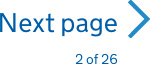
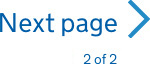
Automated commit at 2015-12-11 09:58:23 UTC by middleman-deploy 1.0.0

Changed region(s): [[0.48, 0.8438, 0.8, 1.0]]

diff --git a/public/journey-7/income.html b/public/journey-7/income.html
@@ -1,4 +1,4 @@
-<!DOCTYPE html><html ng-app="app"><head><meta charset="utf-8" /><title>Apply for help with fees</title><meta content="width=device-width" name="viewport" /><link href="../../assets/stylesheets/styles.css" rel="stylesheet" /><link href="../../assets/stylesheets/r2_calculator.css" rel="stylesheet" /><link href="../../assets/stylesheets/r1calc.css" rel="stylesheet" /><script src="../../assets/javascripts/jquery.min.js"></script></head><body><div class="contain-to-grid"><nav class="top-bar" data-topbar=""><ul class="title-area"><li class="name"><h1><a href="../../">GOV.UK</a></h1></li></ul><ul><li class="section"><h1></h1></li></ul><section class="top-bar-section"><ul class="right"><li><a href=""></a></li></ul></section></nav></div><div class="row"><div class="large-12 columns"><form><div class="row"><div class="small-12 medium-6 columns"><br /><h4>What is your total monthly income, before tax and National Insurance?</h4></div></div><div class="row"><div class="small-12 medium-3 columns"><div class="options radio"><div class="option"><label for="email"><input id="email" name="email" type="checkbox" />Wages</label></div></div></div></div><div class="hide" id="email-detail"><div class="row"><div class="small-12 medium-4 columns"><div class="panel-indent"><label for="email-detail">Email address<div class="small-2 medium-3 large-3 columns" style="padding:0px;"><span class="prefix"><label class="inline" for="fee">£</label></span></div><div class="small-10 medium-9 large-7 columns end" style="padding:0px;"><input id="fee" type="number" /></div></label></div></div></div></div><div class="row"><div class="small-12 medium-3 columns"><div class="options radio"><div class="option"><label for="phone"><input id="phone" name="phone" type="checkbox" />Child benefit</label></div></div></div></div><div class="hide" id="phone-detail"><div class="row"><div class="small-12 medium-4 columns"><div class="panel-indent"><label for="email-detail">Child benefit<div class="small-2 medium-3 large-3 columns" style="padding:0px;"><span class="prefix"><label class="inline" for="fee">£</label></span></div><div class="small-10 medium-9 large-7 columns end" style="padding:0px;"><input id="fee" type="number" /></div></label></div></div><div class="row"><div class="small-12 medium-10 columns"><label for="form">Working Tax Credit</label><div class="small-2 medium-3 large-3 columns" style="padding:0px;"><span class="prefix"><label class="inline" for="fee">£</label></span></div><div class="small-10 medium-9 large-7 columns end" style="padding:0px;"><input id="fee" type="number" /></div></div></div><div class="row"><div class="small-12 medium-10 columns"><label for="form">Child Tax Credit</label><div class="small-2 medium-3 large-3 columns" style="padding:0px;"><span class="prefix"><label class="inline" for="fee">£</label></span></div><div class="small-10 medium-9 large-7 columns end" style="padding:0px;"><input id="fee" type="number" /></div></div></div><div class="row"><div class="small-12 medium-10 columns"><label for="form">Maintenance payments</label><div class="small-2 medium-3 large-3 columns" style="padding:0px;"><span class="prefix"><label class="inline" for="fee">£</label></span></div><div class="small-10 medium-9 large-7 columns end" style="padding:0px;"><input id="fee" type="number" /></div></div></div><div class="row"><div class="small-12 medium-10 columns"><label for="form">Contribution-based Jobseekers Allowance (JSA)</label><div class="small-2 medium-3 large-3 columns" style="padding:0px;"><span class="prefix"><label class="inline" for="fee">£</label></span></div><div class="small-10 medium-9 large-7 columns end" style="padding:0px;"><input id="fee" type="number" /></div></div></div><div class="row"><div class="small-12 medium-10 columns"><label for="form">Contribution-based Employment and Support Allowance (ESA)</label><div class="small-2 medium-3 large-3 columns" style="padding:0px;"><span class="prefix"><label class="inline" for="fee">£</label></span></div><div class="small-10 medium-9 large-7 columns end" style="padding:0px;"><input id="fee" type="number" /></div></div></div><div class="row"><div class="small-12 medium-10 columns"><label for="form">Universal Credit</label><div class="small-2 medium-3 large-3 columns" style="padding:0px;"><span class="prefix"><label class="inline" for="fee">£</label></span></div><div class="small-10 medium-9 large-7 columns end" style="padding:0px;"><input id="fee" type="number" /></div></div></div><div class="row"><div class="small-12 medium-10 columns"><label for="form">Pensions (state, work, private)</label><div class="small-2 medium-3 large-3 columns" style="padding:0px;"><span class="prefix"><label class="inline" for="fee">£</label></span></div><div class="small-10 medium-9 large-7 columns end" style="padding:0px;"><input id="fee" type="number" /></div></div></div><div class="row"><div class="small-12 medium-10 columns"><label for="form">Rent from anyone living with you</label><div class="small-2 medium-3 large-3 columns" style="padding:0px;"><span class="prefix"><label class="inline" for="fee">£</label></span></div><div class="small-10 medium-9 large-7 columns end" style="padding:0px;"><input id="fee" type="number" /></div></div></div><div class="row"><div class="small-12 medium-10 columns"><label for="form">Rent from other properties you own</label><div class="small-2 medium-3 large-3 columns" style="padding:0px;"><span class="prefix"><label class="inline" for="fee">£</label></span></div><div class="small-10 medium-9 large-7 columns end" style="padding:0px;"><input id="fee" type="number" /></div></div></div><div class="row"><div class="small-12 medium-10 columns columns"><label for="form">Other monthly income</label><div class="small-10 medium-10 columns end" style="padding:0px;"><input id="fee" type="number" /></div><div class="small-2 medium-3 large-3 columns" style="padding:0px;"><span class="prefix"><label class="inline" for="fee">£</label></span></div><div class="small-10 medium-9 large-7 columns end" style="padding:0px;"><input id="fee" type="number" /></div></div></div></div></div><br /><div class="row"><div class="small-12 medium-6 columns"><a href="refund.html"><div class="button success">Continue</div></a></div></div></form><script>$(document).ready( function() {
+<!DOCTYPE html><html ng-app="app"><head><meta charset="utf-8" /><title>Apply for help with fees</title><meta content="width=device-width" name="viewport" /><link href="../../assets/stylesheets/styles.css" rel="stylesheet" /><link href="../../assets/stylesheets/r2_calculator.css" rel="stylesheet" /><link href="../../assets/stylesheets/r1calc.css" rel="stylesheet" /><script src="../../assets/javascripts/jquery.min.js"></script></head><body><div class="contain-to-grid"><nav class="top-bar" data-topbar=""><ul class="title-area"><li class="name"><h1><a href="../../">GOV.UK</a></h1></li></ul><ul><li class="section"><h1></h1></li></ul><section class="top-bar-section"><ul class="right"><li><a href=""></a></li></ul></section></nav></div><div class="row"><div class="large-12 columns"><form><div class="row"><div class="small-12 medium-6 columns"><br /><h4>What is your total monthly income, before tax and National Insurance?</h4></div></div><div class="row"><div class="small-12 medium-3 columns"><div class="options radio"><div class="option"><label for="email"><input id="email" name="email" type="checkbox" />Wages</label></div></div></div></div><div class="hide" id="email-detail"><div class="row"><div class="small-12 medium-6 columns"><div class="panel-indent"><div class="row"><div class="small-12 medium-6 columns"><label for="form">Wages</label><div class="small-2 medium-3 large-2 columns" style="padding:0px;"><span class="prefix"><label class="inline" for="fee">£</label></span></div><div class="small-10 medium-9 large-4 columns end" style="padding:0px;"><input id="fee" type="number" /></div></div></div></div></div></div></div><div class="row"><div class="small-12 medium-3 columns"><div class="options radio"><div class="option"><label for="phone"><input id="phone" name="phone" type="checkbox" />Child benefit</label></div></div></div></div><div class="hide" id="phone-detail"><div class="row"><div class="small-12 medium-4 columns"><div class="panel-indent"><label for="email-detail">Child benefit<div class="small-2 medium-3 large-3 columns" style="padding:0px;"><span class="prefix"><label class="inline" for="fee">£</label></span></div><div class="small-10 medium-9 large-7 columns end" style="padding:0px;"><input id="fee" type="number" /></div></label></div></div><div class="row"><div class="small-12 medium-10 columns"><label for="form">Working Tax Credit</label><div class="small-2 medium-3 large-3 columns" style="padding:0px;"><span class="prefix"><label class="inline" for="fee">£</label></span></div><div class="small-10 medium-9 large-7 columns end" style="padding:0px;"><input id="fee" type="number" /></div></div></div><div class="row"><div class="small-12 medium-10 columns"><label for="form">Child Tax Credit</label><div class="small-2 medium-3 large-3 columns" style="padding:0px;"><span class="prefix"><label class="inline" for="fee">£</label></span></div><div class="small-10 medium-9 large-7 columns end" style="padding:0px;"><input id="fee" type="number" /></div></div></div><div class="row"><div class="small-12 medium-10 columns"><label for="form">Maintenance payments</label><div class="small-2 medium-3 large-3 columns" style="padding:0px;"><span class="prefix"><label class="inline" for="fee">£</label></span></div><div class="small-10 medium-9 large-7 columns end" style="padding:0px;"><input id="fee" type="number" /></div></div></div><div class="row"><div class="small-12 medium-10 columns"><label for="form">Contribution-based Jobseekers Allowance (JSA)</label><div class="small-2 medium-3 large-3 columns" style="padding:0px;"><span class="prefix"><label class="inline" for="fee">£</label></span></div><div class="small-10 medium-9 large-7 columns end" style="padding:0px;"><input id="fee" type="number" /></div></div></div><div class="row"><div class="small-12 medium-10 columns"><label for="form">Contribution-based Employment and Support Allowance (ESA)</label><div class="small-2 medium-3 large-3 columns" style="padding:0px;"><span class="prefix"><label class="inline" for="fee">£</label></span></div><div class="small-10 medium-9 large-7 columns end" style="padding:0px;"><input id="fee" type="number" /></div></div></div><div class="row"><div class="small-12 medium-10 columns"><label for="form">Universal Credit</label><div class="small-2 medium-3 large-3 columns" style="padding:0px;"><span class="prefix"><label class="inline" for="fee">£</label></span></div><div class="small-10 medium-9 large-7 columns end" style="padding:0px;"><input id="fee" type="number" /></div></div></div><div class="row"><div class="small-12 medium-10 columns"><label for="form">Pensions (state, work, private)</label><div class="small-2 medium-3 large-3 columns" style="padding:0px;"><span class="prefix"><label class="inline" for="fee">£</label></span></div><div class="small-10 medium-9 large-7 columns end" style="padding:0px;"><input id="fee" type="number" /></div></div></div><div class="row"><div class="small-12 medium-10 columns"><label for="form">Rent from anyone living with you</label><div class="small-2 medium-3 large-3 columns" style="padding:0px;"><span class="prefix"><label class="inline" for="fee">£</label></span></div><div class="small-10 medium-9 large-7 columns end" style="padding:0px;"><input id="fee" type="number" /></div></div></div><div class="row"><div class="small-12 medium-10 columns"><label for="form">Rent from other properties you own</label><div class="small-2 medium-3 large-3 columns" style="padding:0px;"><span class="prefix"><label class="inline" for="fee">£</label></span></div><div class="small-10 medium-9 large-7 columns end" style="padding:0px;"><input id="fee" type="number" /></div></div></div><div class="row"><div class="small-12 medium-10 columns columns"><label for="form">Other monthly income</label><div class="small-10 medium-10 columns end" style="padding:0px;"><input id="fee" type="number" /></div><div class="small-2 medium-3 large-3 columns" style="padding:0px;"><span class="prefix"><label class="inline" for="fee">£</label></span></div><div class="small-10 medium-9 large-7 columns end" style="padding:0px;"><input id="fee" type="number" /></div></div></div></div></div><br /><div class="row"><div class="small-12 medium-6 columns"><a href="refund.html"><div class="button success">Continue</div></a></div></div></form><script>$(document).ready( function() {
   buildNextUrl('3-savings.html');
   $('#fee').bind('change', function () {
     $("#next-url").attr("href", updateQueryStringParameter('fee', $(this).val()));

diff --git a/staff/list-processed-month.html b/staff/list-processed-month.html
@@ -1,2 +1,2 @@
-<!DOCTYPE html><html ng-app="app"><head><meta charset="utf-8" /><title>Help with fees</title><meta content="width=device-width" name="viewport" /><link href="../assets/stylesheets/styles.css" rel="stylesheet" /><link href="../assets/stylesheets/r2_calculator.css" rel="stylesheet" /><link href="../assets/stylesheets/r1calc.css" rel="stylesheet" /><script src="../assets/javascripts/jquery.min.js"></script></head><body><div class="contain-to-grid"><nav class="top-bar" data-topbar=""><ul class="title-area"><li class="name"><h1><a href="../">Help with fees</a></h1></li></ul><ul><li class="section"><h1></h1></li></ul><section class="top-bar-section"><ul class="right"><li><a href=""></a></li></ul></section></nav></div><div class="row"><div class="large-12 columns"><form><br /><div class="row"><div class="small-12 medium-12 large-12 columns"><h2>Processed applications</h2></div></div><br /><div class="row"><div class="small-12 columns"><div class="panel"><div class="row"><div class="small-12 medium-4 columns"><label for="first_name">Date from</label><span class="hint">For example DD/MM/YYYY</span><input name="first_name" placeholder="1/11/2015" type="text" /></div><div class="small-12 medium-4 columns"><label for="first_name">Date to</label><span class="hint">For example DD/MM/YYYY</span><input name="first_name" placeholder="1/12/2015" type="text" /></div><div class="small-12 medium-4 columns"><a href="list-processed-month.html"><div class="button success" style="margin-top:36px;">Show applications</div></a></div></div></div></div></div><br /><div class="row"><div class="small-12 columns"><table width="100%"><thead><tr><th>Reference</th><th>Applicant</th><th>Date received</th><th>Date processed</th><th>Processed by</th><th>Emergency</th></tr></thead><tbody><tr><td><a href="application.html">AT001-15-106</a></td><td>Mr John Smith</td><td>2 November</td><td>2 November</td><td>Juliana Richardson</td><td></td></tr><tr><td><a href="application.html">AT001-15-106</a></td><td>Mr George Rogers</td><td>3 November</td><td>3 November</td><td>Juliana Richardson</td><td></td></tr><tr><td><a href="application.html">AT001-15-106</a></td><td>Mr Catherine Holmes</td><td>4 November</td><td>5 November</td><td>Juliana Richardson</td><td></td></tr><tr><td><a href="application.html">AT001-15-106</a></td><td>Mr Dan Flutter</td><td>9 November</td><td>9 November</td><td>Juliana Richardson</td><td></td></tr><tr><td><a href="application-emergency.html">AT001-15-107</a></td><td>Mrs Vanessa Smith</td><td>10 November</td><td>12 November</td><td>Juliana Richardson</td><td></td></tr><tr><td><a href="application.html">AT001-15-108</a></td><td>Mr Peter Geoffery-Smith</td><td>16 November</td><td>16 November</td><td>Juliana Richardson</td><td></td></tr><tr><td><a href="application-emergency.html">AT001-15-109</a></td><td>Mr Wayne Quinn</td><td>19 November</td><td>20 November</td><td>Juliana Richardson</td><td></td></tr><tr><td><a href="application.html">AT001-15-110</a></td><td>Mrs Wilma Goring</td><td>23 November</td><td>23 November</td><td>Juliana Richardson</td><td></td></tr><tr><td><a href="application.html">AT001-15-111</a></td><td>Mr Peter Geoffery-Smith</td><td>24 November</td><td>24 November</td><td>Juliana Richardson</td><td></td></tr><tr><td><a href="application.html">AT001-15-112</a></td><td>Ms Sarah Nicoles</td><td>25 November</td><td>25 November</td><td>Juliana Richardson</td><td></td></tr><tr><td><a href="application-emergency.html">AT001-15-113</a></td><td>Mrs Tray Caulson</td><td>30 November</td><td>30 November</td><td>Juliana Richardson</td><td>Yes</td></tr></tbody></table></div></div><br /><br /><div class="row"><div class="small-12 columns"><div class="row"><div class="small-3 columns"><img src="../assets/images/previous-page.jpg" /></div><div class="small-6 columns"></div><div class="small-3 columns"><img src="../assets/images/next-page.jpg" /></div></div></div></div></form><script>$(document).ready( function() {
+<!DOCTYPE html><html ng-app="app"><head><meta charset="utf-8" /><title>Help with fees</title><meta content="width=device-width" name="viewport" /><link href="../assets/stylesheets/styles.css" rel="stylesheet" /><link href="../assets/stylesheets/r2_calculator.css" rel="stylesheet" /><link href="../assets/stylesheets/r1calc.css" rel="stylesheet" /><script src="../assets/javascripts/jquery.min.js"></script></head><body><div class="contain-to-grid"><nav class="top-bar" data-topbar=""><ul class="title-area"><li class="name"><h1><a href="../">Help with fees</a></h1></li></ul><ul><li class="section"><h1></h1></li></ul><section class="top-bar-section"><ul class="right"><li><a href=""></a></li></ul></section></nav></div><div class="row"><div class="large-12 columns"><form><br /><div class="row"><div class="small-12 medium-12 large-12 columns"><h2>Processed applications</h2></div></div><br /><div class="row"><div class="small-12 columns"><div class="panel"><div class="row"><div class="small-12 medium-4 columns"><label for="first_name">Date from</label><span class="hint">For example DD/MM/YYYY</span><input name="first_name" placeholder="1/11/2015" type="text" /></div><div class="small-12 medium-4 columns"><label for="first_name">Date to</label><span class="hint">For example DD/MM/YYYY</span><input name="first_name" placeholder="1/12/2015" type="text" /></div><div class="small-12 medium-4 columns"><a href="list-processed-month.html"><div class="button success" style="margin-top:36px;">Show applications</div></a></div></div></div></div></div><br /><div class="row"><div class="small-12 columns"><table width="100%"><thead><tr><th>Reference</th><th>Applicant</th><th>Date received</th><th>Date processed</th><th>Processed by</th><th>Emergency</th></tr></thead><tbody><tr><td><a href="application.html">AT001-15-106</a></td><td>Mr John Smith</td><td>2 November</td><td>2 November</td><td>Juliana Richardson</td><td></td></tr><tr><td><a href="application.html">AT001-15-106</a></td><td>Mr George Rogers</td><td>3 November</td><td>3 November</td><td>Juliana Richardson</td><td></td></tr><tr><td><a href="application.html">AT001-15-106</a></td><td>Mr Catherine Holmes</td><td>4 November</td><td>5 November</td><td>Juliana Richardson</td><td></td></tr><tr><td><a href="application.html">AT001-15-106</a></td><td>Mr Dan Flutter</td><td>6 November</td><td>6 November</td><td>Juliana Richardson</td><td></td></tr><tr><td><a href="application-emergency.html">AT001-15-107</a></td><td>Mrs Vanessa Smith</td><td>9 November</td><td>10 November</td><td>Juliana Richardson</td><td></td></tr><tr><td><a href="application.html">AT001-15-108</a></td><td>Mr Peter Geoffery-Smith</td><td>13 November</td><td>13 November</td><td>Juliana Richardson</td><td></td></tr><tr><td><a href="application-emergency.html">AT001-15-109</a></td><td>Mr Wayne Quinn</td><td>13 November</td><td>13 November</td><td>Juliana Richardson</td><td></td></tr><tr><td><a href="application.html">AT001-15-110</a></td><td>Mrs Wilma Goring</td><td>16 November</td><td>17 November</td><td>Juliana Richardson</td><td></td></tr><tr><td><a href="application.html">AT001-15-111</a></td><td>Mr Peter Geoffery-Smith</td><td>17 November</td><td>17 November</td><td>Juliana Richardson</td><td></td></tr><tr><td><a href="application.html">AT001-15-112</a></td><td>Ms Sarah Nicoles</td><td>18 November</td><td>18 November</td><td>Juliana Richardson</td><td></td></tr><tr><td><a href="application-emergency.html">AT001-15-113</a></td><td>Mrs Tray Caulson</td><td>19 November</td><td>19 November</td><td>Juliana Richardson</td><td>Yes</td></tr></tbody></table></div></div><br /><br /><div class="row"><div class="small-12 columns"><div class="row"><div class="small-10 columns"></div><div class="small-2 columns"><a href="list-processed-month-2.html"><img src="../assets/images/next-page.jpg" /></a></div></div></div></div></form><script>$(document).ready( function() {
 });</script></div></div><div class="row"><div class="small-12 columns"><br /><br /><footer class="row page-footer"><div class="small-12 columns"><div class="small-12 medium-12 large-6 columns"><h4>Contact us</h4><hr style="color:bfc1c3;" /><h5>Technical support</h5><p><a href="mailto:helpwithfees.support@digital.justice.gov.uk">helpwithfees.support@digital.justice.gov.uk</a></p></div><div class="small-12 medium-12 large-6 columns"><h4>Your feedback</h4><hr style="color:bfc1c3;" /><div class="small-8 columns" style="padding-left:0px;"><h5>Tell us what you think</h5><p><a href="#">Give feedback</a></p></div><div class="small-4 columns"><img src="../assets/images/copyright.png" style="padding-top:35px;" /></div></div></div></footer><p></p><a href="/"></a></div><script src="../assets/javascripts/libs.js"></script><script src="../assets/javascripts/app.js"></script><script src="../assets/javascripts/details.polyfill.js"></script></div></body></html>

diff --git a/staff/list-processed-month-2.html b/staff/list-processed-month-2.html
@@ -1,0 +1,2 @@
+<!DOCTYPE html><html ng-app="app"><head><meta charset="utf-8" /><title>Help with fees</title><meta content="width=device-width" name="viewport" /><link href="../assets/stylesheets/styles.css" rel="stylesheet" /><link href="../assets/stylesheets/r2_calculator.css" rel="stylesheet" /><link href="../assets/stylesheets/r1calc.css" rel="stylesheet" /><script src="../assets/javascripts/jquery.min.js"></script></head><body><div class="contain-to-grid"><nav class="top-bar" data-topbar=""><ul class="title-area"><li class="name"><h1><a href="../">Help with fees</a></h1></li></ul><ul><li class="section"><h1></h1></li></ul><section class="top-bar-section"><ul class="right"><li><a href=""></a></li></ul></section></nav></div><div class="row"><div class="large-12 columns"><form><br /><div class="row"><div class="small-12 medium-12 large-12 columns"><h2>Processed applications</h2></div></div><br /><div class="row"><div class="small-12 columns"><div class="panel"><div class="row"><div class="small-12 medium-4 columns"><label for="first_name">Date from</label><span class="hint">For example DD/MM/YYYY</span><input name="first_name" placeholder="1/11/2015" type="text" /></div><div class="small-12 medium-4 columns"><label for="first_name">Date to</label><span class="hint">For example DD/MM/YYYY</span><input name="first_name" placeholder="1/12/2015" type="text" /></div><div class="small-12 medium-4 columns"><a href="list-processed-month.html"><div class="button success" style="margin-top:36px;">Show applications</div></a></div></div></div></div></div><br /><div class="row"><div class="small-12 columns"><table width="100%"><thead><tr><th>Reference</th><th>Applicant</th><th>Date received</th><th>Date processed</th><th>Processed by</th><th>Emergency</th></tr></thead><tbody><tr><td><a href="application.html">AT001-15-106</a></td><td>Mr Larry Pratt</td><td>23 November</td><td>23 November</td><td>Juliana Richardson</td><td></td></tr><tr><td><a href="application.html">AT001-15-106</a></td><td>Mr Sunny Right</td><td>24 November</td><td>25 November</td><td>Juliana Richardson</td><td></td></tr><tr><td><a href="application.html">AT001-15-106</a></td><td>Mr Gerald Frank</td><td>25 November</td><td>25 November</td><td>Juliana Richardson</td><td></td></tr><tr><td><a href="application.html">AT001-15-106</a></td><td>Mr Penelope Townsend</td><td>26 November</td><td>26 November</td><td>Juliana Richardson</td><td></td></tr><tr><td><a href="application-emergency.html">AT001-15-107</a></td><td>Mrs Tim Bell</td><td>27 November</td><td>27 November</td><td>Juliana Richardson</td><td></td></tr><tr><td><a href="application.html">AT001-15-108</a></td><td>Mr Geoffery Thistle</td><td>27 November</td><td>27 November</td><td>Juliana Richardson</td><td></td></tr><tr><td><a href="application-emergency.html">AT001-15-109</a></td><td>Mr Doug Sing</td><td>27 November</td><td>30 November</td><td>Juliana Richardson</td><td></td></tr><tr><td><a href="application.html">AT001-15-110</a></td><td>Mrs Brendan Grant</td><td>30 November</td><td>30 November</td><td>Juliana Richardson</td><td></td></tr></tbody></table></div></div><br /><br /><div class="row"><div class="small-12 columns"><div class="row"><div class="small-3 columns"><a href="list-processed-month.html"><img src="../assets/images/previous-page.jpg" /></a></div><div class="small-9 columns"></div></div></div></div></form><script>$(document).ready( function() {
+});</script></div></div><div class="row"><div class="small-12 columns"><br /><br /><footer class="row page-footer"><div class="small-12 columns"><div class="small-12 medium-12 large-6 columns"><h4>Contact us</h4><hr style="color:bfc1c3;" /><h5>Technical support</h5><p><a href="mailto:helpwithfees.support@digital.justice.gov.uk">helpwithfees.support@digital.justice.gov.uk</a></p></div><div class="small-12 medium-12 large-6 columns"><h4>Your feedback</h4><hr style="color:bfc1c3;" /><div class="small-8 columns" style="padding-left:0px;"><h5>Tell us what you think</h5><p><a href="#">Give feedback</a></p></div><div class="small-4 columns"><img src="../assets/images/copyright.png" style="padding-top:35px;" /></div></div></div></footer><p></p><a href="/"></a></div><script src="../assets/javascripts/libs.js"></script><script src="../assets/javascripts/app.js"></script><script src="../assets/javascripts/details.polyfill.js"></script></div></body></html>

diff --git a/staff/list-deleted.html b/staff/list-deleted.html
@@ -1,2 +1,2 @@
-<!DOCTYPE html><html ng-app="app"><head><meta charset="utf-8" /><title>Help with fees</title><meta content="width=device-width" name="viewport" /><link href="../assets/stylesheets/styles.css" rel="stylesheet" /><link href="../assets/stylesheets/r2_calculator.css" rel="stylesheet" /><link href="../assets/stylesheets/r1calc.css" rel="stylesheet" /><script src="../assets/javascripts/jquery.min.js"></script></head><body><div class="contain-to-grid"><nav class="top-bar" data-topbar=""><ul class="title-area"><li class="name"><h1><a href="../">Help with fees</a></h1></li></ul><ul><li class="section"><h1></h1></li></ul><section class="top-bar-section"><ul class="right"><li><a href=""></a></li></ul></section></nav></div><div class="row"><div class="large-12 columns"><form><br /><div class="row"><div class="small-12 medium-12 large-12 columns"><h2>Deleted applications</h2></div></div><br /><div class="row"><div class="small-12 columns"><table width="100%"><thead><tr><th>Reference</th><th>Applicant</th><th>Date received</th><th>Date processed</th><th>Processed by</th><th>Emergency</th></tr></thead><tbody><tr><td><a href="application-deleted.html">AT001-15-112</a></td><td>Ms Sarah Nicoles</td><td>15 October</td><td>15 October</td><td>Juliana Richardson</td><td></td></tr><tr><td><a href="application-deleted.html">AT001-15-113</a></td><td>Mrs Tray Caulson</td><td>15 October</td><td>16 October</td><td>Juliana Richardson</td><td>Yes</td></tr></tbody></table></div></div></form><script>$(document).ready( function() {
+<!DOCTYPE html><html ng-app="app"><head><meta charset="utf-8" /><title>Help with fees</title><meta content="width=device-width" name="viewport" /><link href="../assets/stylesheets/styles.css" rel="stylesheet" /><link href="../assets/stylesheets/r2_calculator.css" rel="stylesheet" /><link href="../assets/stylesheets/r1calc.css" rel="stylesheet" /><script src="../assets/javascripts/jquery.min.js"></script></head><body><div class="contain-to-grid"><nav class="top-bar" data-topbar=""><ul class="title-area"><li class="name"><h1><a href="../">Help with fees</a></h1></li></ul><ul><li class="section"><h1></h1></li></ul><section class="top-bar-section"><ul class="right"><li><a href=""></a></li></ul></section></nav></div><div class="row"><div class="large-12 columns"><form><br /><div class="row"><div class="small-12 medium-12 large-12 columns"><h2>Deleted applications</h2></div></div><br /><div class="row"><div class="small-12 columns"><table width="100%"><thead><tr><th>Reference</th><th>Applicant</th><th>Date received</th><th>Date processed</th><th>Processed by</th><th>Emergency</th></tr></thead><tbody><tr><td><a href="application-deleted.html">AT001-15-112</a></td><td>Ms Sarah Nicoles</td><td>15 October</td><td>15 October</td><td>Juliana Richardson</td><td></td></tr><tr><td><a href="application-deleted.html">AT001-15-113</a></td><td>Mrs Tray Caulson</td><td>15 October</td><td>16 October</td><td>Juliana Richardson</td><td>Yes</td></tr></tbody></table></div></div><br /><br /><div class="row"><div class="small-12 columns"><div class="row"><div class="small-10 columns"></div><div class="small-2 columns"><a href="#"><img src="../assets/images/next-page.jpg" /></a></div></div></div></div></form><script>$(document).ready( function() {
 });</script></div></div><div class="row"><div class="small-12 columns"><br /><br /><footer class="row page-footer"><div class="small-12 columns"><div class="small-12 medium-12 large-6 columns"><h4>Contact us</h4><hr style="color:bfc1c3;" /><h5>Technical support</h5><p><a href="mailto:helpwithfees.support@digital.justice.gov.uk">helpwithfees.support@digital.justice.gov.uk</a></p></div><div class="small-12 medium-12 large-6 columns"><h4>Your feedback</h4><hr style="color:bfc1c3;" /><div class="small-8 columns" style="padding-left:0px;"><h5>Tell us what you think</h5><p><a href="#">Give feedback</a></p></div><div class="small-4 columns"><img src="../assets/images/copyright.png" style="padding-top:35px;" /></div></div></div></footer><p></p><a href="/"></a></div><script src="../assets/javascripts/libs.js"></script><script src="../assets/javascripts/app.js"></script><script src="../assets/javascripts/details.polyfill.js"></script></div></body></html>
